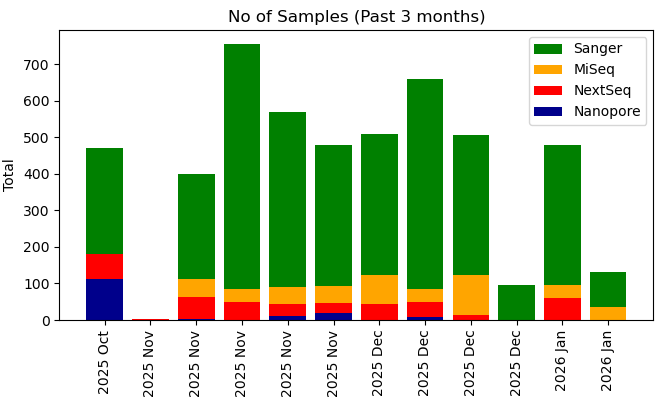
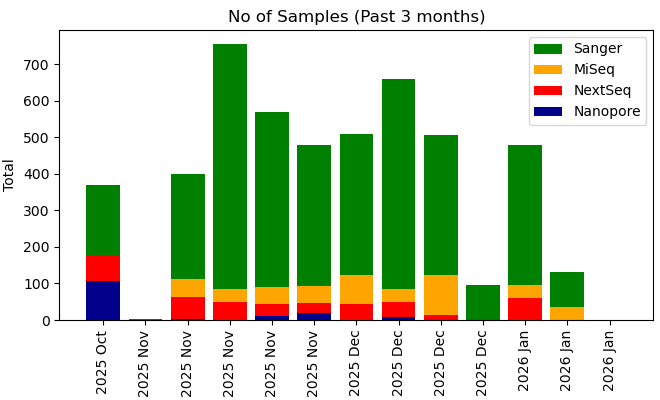
Your commit message here

diff --git a/krona/cgs.html b/krona/cgs.html
@@ -52,8 +52,8 @@ body {
   flex-direction: column;
 }
 </style>
-<H1>Genomics Facility Status: 07:00:16, 20/01/2026</H1>
-<marquee behavior="scroll" scrollamount="20" direction="left" bgcolor="lightgrey">ATTTTTACTTTTTATGTCCCTCATCGTCACGTTTATGGTGAACAGTGGATTAAGTTCATGAAGGATGGTGTTAATGCCACTCCTCTCCCGACTGTTAACACTACTGGTTATATTGACCATGCCGCTTTTCTTGGCACGATTAACCCTGATACCAATAAAATCCCTAAGCATTTGTTTCAGGGTTATTTGAATATCTATAACAACTATTTTAAAGCGCCGTGGATGCCTGACCGTACCGAGGCTAACCCTA</marquee>
+<H1>Genomics Facility Status: 07:00:25, 21/01/2026</H1>
+<marquee behavior="scroll" scrollamount="20" direction="left" bgcolor="lightgrey">GCGAGTGGTCGGCAGATTGCGATAAACGGTCACATTACCTTTAACCTGACTATTCCACTGCAACAACTGAACGGACTGGAAACACTGGTCATAATCATGGTGGCGAATAAGTACGCGTTCTTGCAAATCACCAGAAGGCGGTTCCTGAATGAATGGGAAGCCTTCAAGAAGGTGATAAGCAGGAGAAACATACGAAGGCGCATAACGATACCACTGACCCTCAGCAATCTTAAACTTCTTAGACGAATCAC</marquee>
 <TABLE BORDER=0><TR><TD><TABLE class="styled-table"><H3>GigaBases Sequenced</H3>
-<TR><TD><b>Platform</b></TD><TD><b>Week</b></TD><TD><b>Month</b></TD><TD><b>Year</b></TD><TD><b>Total</b></TD></TR><TR><TD>Illumina MiSeq</TD><TD>8.24</TD><TD>20.62</TD><TD>343.99</TD><TD>431.09</TD></TR><TR><TD>Illumina NextSeq</TD><TD>0.0</TD><TD>114.2</TD><TD>5263.86</TD><TD>6013.94</TD></TR><TR><TD>Nanopore PromethION</TD><TD>0.0</TD><TD>0.0</TD><TD>7023.87</TD><TD>10521.51</TD></TR><TR><TD>Sanger</TD><TD>0.0</TD><TD>0.0</TD><TD>0.02</TD><TD>0.04</TD></TR></TABLE></TD><TD><IMG SRC="fig1.png"><IMG SRC="fig2.png"></TD></TR><TR><TD><H3>No. Samples (No. Experiments)</H3>
-<TABLE class="styled-table"><TR><TD><b>Platform</b></TD><TD><b>Week</b></TD><TD><b>Month</b></TD><TD><b>Year</b></TD><TD><b>Total</b></TD></TR><TR><TD>Illumina MiSeq</TD><TD>36 (1)</TD><TD>110 (3)</TD><TD>1542 (65)</TD><TD>2001 (77)</TD></TR><TR><TD>Illumina NextSeq</TD><TD>0 (0)</TD><TD>71 (2)</TD><TD>1582 (67)</TD><TD>1877 (75)</TD></TR><TR><TD>Nanopore PromethION</TD><TD>0 (0)</TD><TD>0 (0)</TD><TD>458 (152)</TD><TD>797 (273)</TD></TR><TR><TD>Sanger</TD><TD>96 (96)</TD><TD>576 (576)</TD><TD>20256 (20256)</TD><TD>36839 (36839)</TD></TR></TABLE></TD><TD><IMG SRC="fig4.png"></TD></TR></TABLE></HTML>
+<TR><TD><b>Platform</b></TD><TD><b>Week</b></TD><TD><b>Month</b></TD><TD><b>Year</b></TD><TD><b>Total</b></TD></TR><TR><TD>Illumina MiSeq</TD><TD>8.24</TD><TD>12.95</TD><TD>337.21</TD><TD>431.09</TD></TR><TR><TD>Illumina NextSeq</TD><TD>0.0</TD><TD>114.2</TD><TD>5263.86</TD><TD>6013.94</TD></TR><TR><TD>Nanopore PromethION</TD><TD>0.0</TD><TD>0.0</TD><TD>7023.87</TD><TD>10521.51</TD></TR><TR><TD>Sanger</TD><TD>0.0</TD><TD>0.0</TD><TD>0.02</TD><TD>0.04</TD></TR></TABLE></TD><TD><IMG SRC="fig1.png"><IMG SRC="fig2.png"></TD></TR><TR><TD><H3>No. Samples (No. Experiments)</H3>
+<TABLE class="styled-table"><TR><TD><b>Platform</b></TD><TD><b>Week</b></TD><TD><b>Month</b></TD><TD><b>Year</b></TD><TD><b>Total</b></TD></TR><TR><TD>Illumina MiSeq</TD><TD>36 (2)</TD><TD>72 (3)</TD><TD>1506 (65)</TD><TD>2001 (78)</TD></TR><TR><TD>Illumina NextSeq</TD><TD>0 (0)</TD><TD>71 (2)</TD><TD>1582 (67)</TD><TD>1877 (75)</TD></TR><TR><TD>Nanopore PromethION</TD><TD>0 (0)</TD><TD>0 (0)</TD><TD>458 (152)</TD><TD>797 (273)</TD></TR><TR><TD>Sanger</TD><TD>96 (96)</TD><TD>576 (576)</TD><TD>20256 (20256)</TD><TD>36839 (36839)</TD></TR></TABLE></TD><TD><IMG SRC="fig4.png"></TD></TR></TABLE></HTML>
